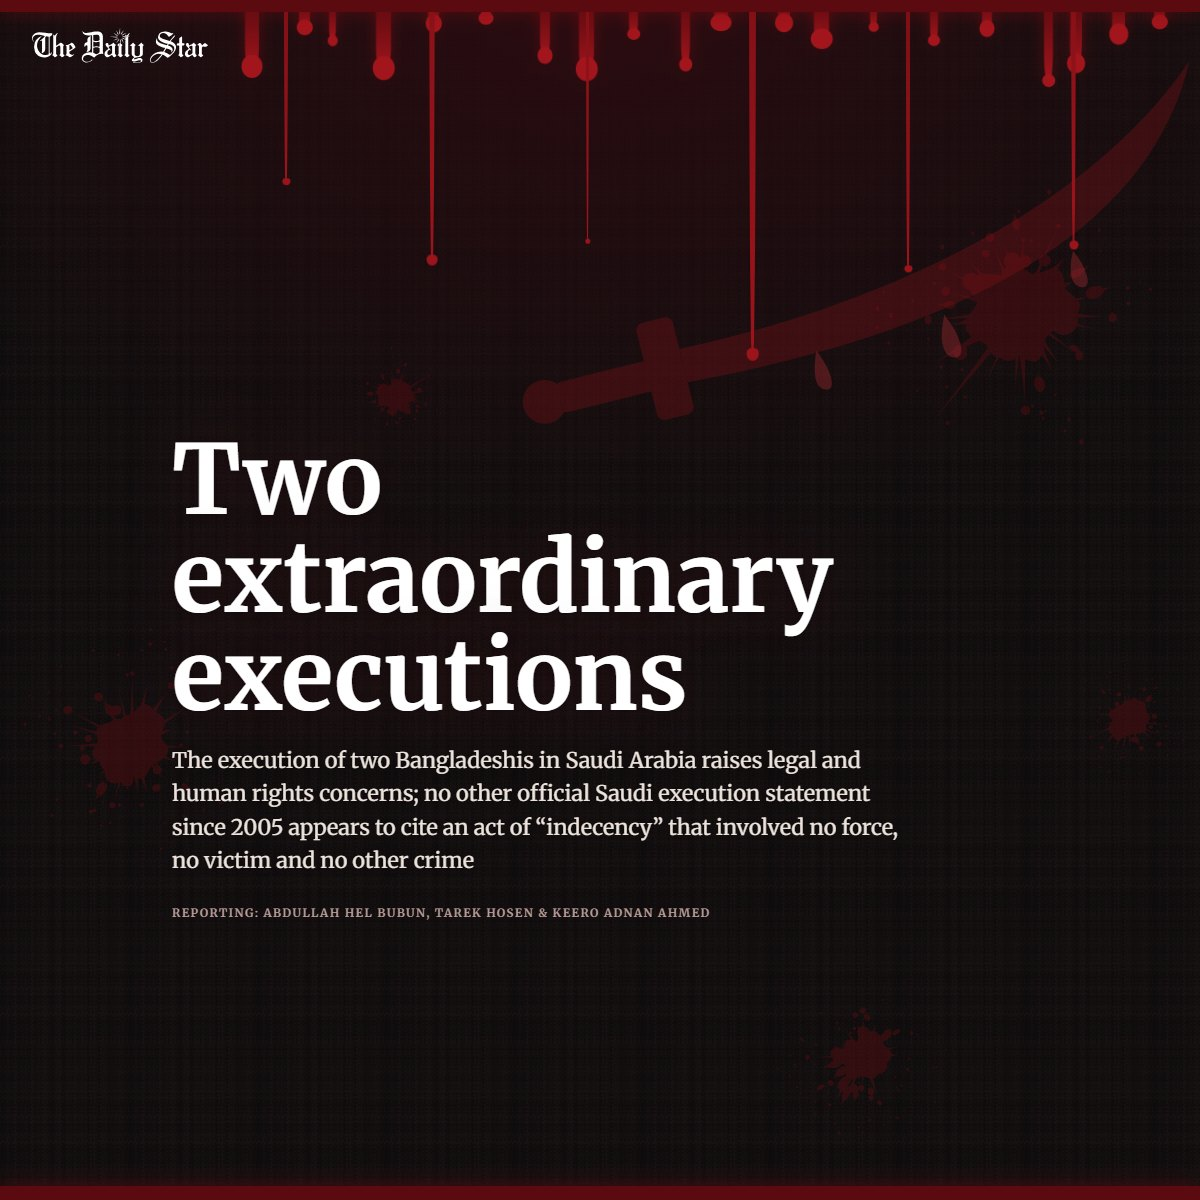
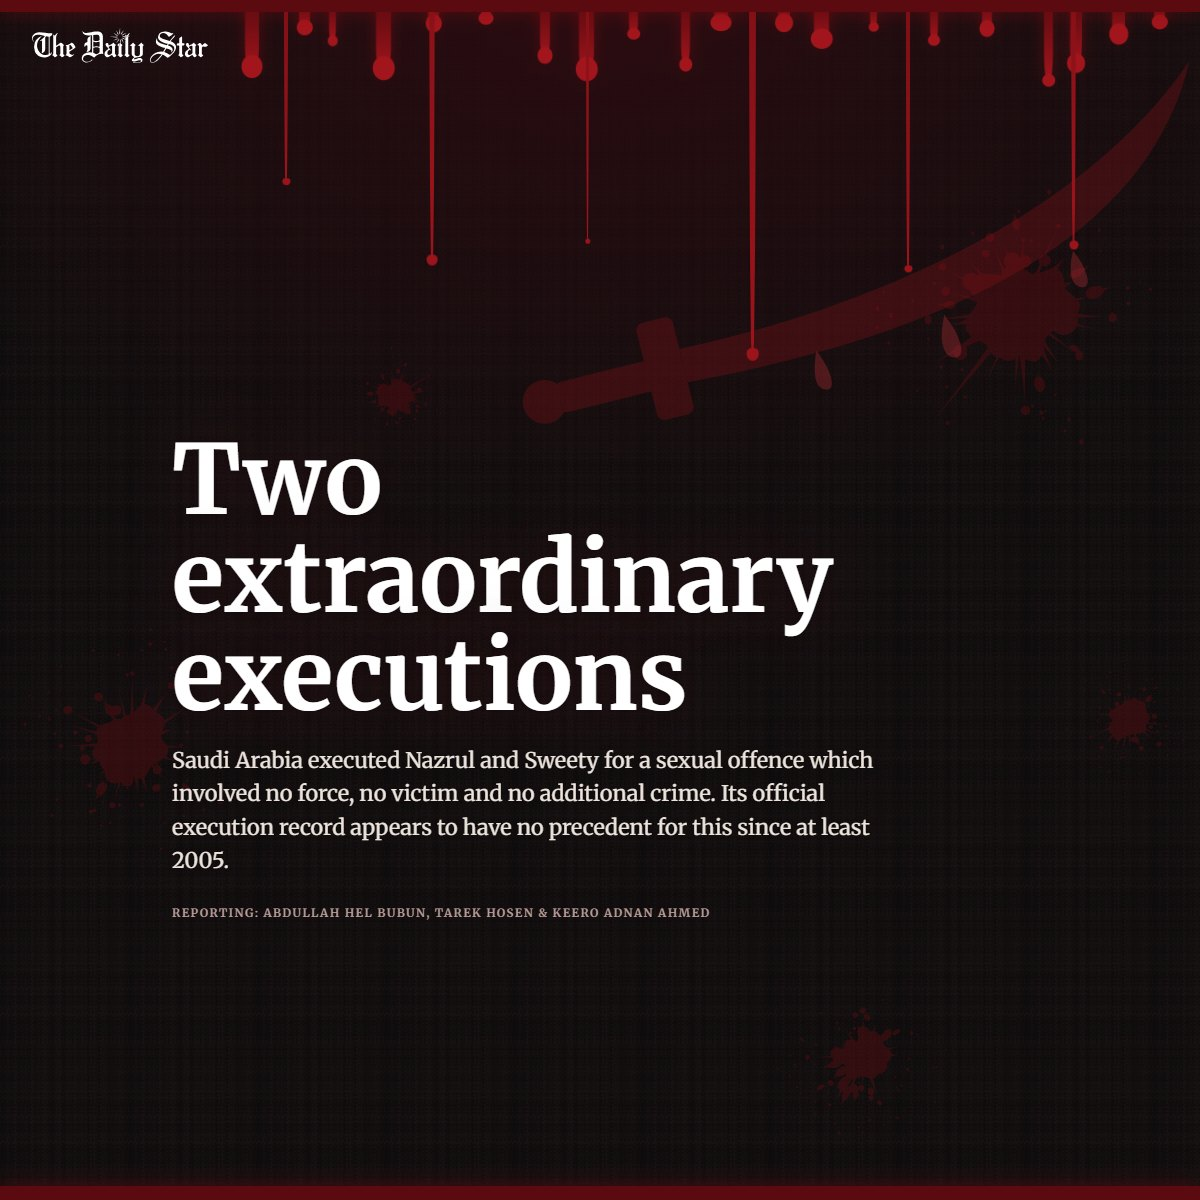
New dek: Nazrul and Sweety's offence, and no precedent since 2005
Hero and JSON-LD alternativeHeadline; share images re-shot.

Changed region(s): [[0.1233, 0.6167, 0.74, 0.74]]

diff --git a/index.html b/index.html
@@ -52,7 +52,7 @@
 <meta name="twitter:description" content="A Daily Star analysis of 665 Saudi government execution statements between January 2024 and 20 October 2026 reveals that the execution of Nazrul and Sweety was extremely unusual.">
 <meta name="twitter:image" content="https://campaign.thedailystar.net/saudi-execution/img/share.jpg">
 <meta name="twitter:image:alt" content="The story’s opening screen: the headline Two extraordinary executions, the standfirst and the byline over blood drips, splatters and a sword">
-<script type="application/ld+json">{"@context": "https://schema.org", "@type": "NewsArticle", "mainEntityOfPage": {"@type": "WebPage", "@id": "https://campaign.thedailystar.net/saudi-execution/"}, "url": "https://campaign.thedailystar.net/saudi-execution/", "headline": "Two extraordinary executions", "alternativeHeadline": "The execution of two Bangladeshis in Saudi Arabia raises legal and human rights concerns; no other official Saudi execution statement since 2005 appears to cite an act of “indecency” that involved no force, no victim and no other crime", "description": "A Daily Star analysis of 665 Saudi government execution statements between January 2024 and 20 October 2026 reveals that the execution of Nazrul and Sweety was extremely unusual.", "image": ["https://campaign.thedailystar.net/saudi-execution/img/share-16x9.jpg", "https://campaign.thedailystar.net/saudi-execution/img/share-4x3.jpg", "https://campaign.thedailystar.net/saudi-execution/img/share-1x1.jpg", "https://campaign.thedailystar.net/saudi-execution/img/share.jpg"], "thumbnailUrl": "https://campaign.thedailystar.net/saudi-execution/img/share.jpg", "datePublished": "2026-10-31T00:00:00+06:00", "dateModified": "2026-10-31T00:00:00+06:00", "inLanguage": "en", "isAccessibleForFree": true, "articleSection": "Investigation", "keywords": ["Saudi Arabia executions", "Saudi Arabia death penalty", "Bangladeshi executed in Saudi Arabia", "Nazrul Islam Abdul Basir", "Sweety Akhtar", "Nazrul and Sweety execution", "fahisha", "indecency execution Makkah", "ta'zir", "qisas", "hudud", "Saudi Interior Ministry", "Saudi war on drugs", "drug-related executions", "captagon", "foreign nationals executed in Saudi Arabia", "migrant workers Saudi Arabia", "Bangladeshi migrants", "Amnesty International", "Reprieve", "European Saudi Organization for Human Rights", "most serious crimes international law", "Islamic law death penalty", "Saudi executions 2025", "Saudi executions 2026", "The Daily Star investigation"], "author": [{"@type": "Person", "name": "Abdullah Hel Bubun"}, {"@type": "Person", "name": "Tarek Hosen"}, {"@type": "Person", "name": "Keero Adnan Ahmed"}], "contributor": [{"@type": "Person", "name": "Mir Rownak"}], "publisher": {"@type": "NewsMediaOrganization", "name": "The Daily Star", "url": "https://www.thedailystar.net/", "logo": {"@type": "ImageObject", "url": "https://campaign.thedailystar.net/saudi-execution/img/logo.png", "width": 600, "height": 60}, "sameAs": ["https://www.facebook.com/dailystarnews", "https://x.com/dailystarnews", "https://www.youtube.com/channel/UCKSJ5rTXq-pYgAmAOhVS_zQ", "https://www.instagram.com/dailystar_bd/", "https://www.linkedin.com/company/thedailystar/"]}, "contentLocation": {"@type": "Place", "name": "Makkah, Saudi Arabia"}, "wordCount": 2542, "copyrightYear": 2026, "copyrightHolder": {"@type": "NewsMediaOrganization", "name": "The Daily Star"}, "about": [{"@type": "Thing", "name": "Capital punishment in Saudi Arabia"}, {"@type": "Thing", "name": "Bangladeshi migrant workers"}], "mentions": [{"@type": "Person", "name": "Nazrul Islam Abdul Basir"}, {"@type": "Person", "name": "Sweety Akhtar"}, {"@type": "Organization", "name": "Amnesty International"}, {"@type": "Organization", "name": "Reprieve"}, {"@type": "Organization", "name": "European Saudi Organization for Human Rights"}, {"@type": "GovernmentOrganization", "name": "Ministry of Interior, Saudi Arabia"}]}</script>
+<script type="application/ld+json">{"@context": "https://schema.org", "@type": "NewsArticle", "mainEntityOfPage": {"@type": "WebPage", "@id": "https://campaign.thedailystar.net/saudi-execution/"}, "url": "https://campaign.thedailystar.net/saudi-execution/", "headline": "Two extraordinary executions", "alternativeHeadline": "Saudi Arabia executed Nazrul and Sweety for a sexual offence which involved no force, no victim and no additional crime. Its official execution record appears to have no precedent for this since at least 2005.", "description": "A Daily Star analysis of 665 Saudi government execution statements between January 2024 and 20 October 2026 reveals that the execution of Nazrul and Sweety was extremely unusual.", "image": ["https://campaign.thedailystar.net/saudi-execution/img/share-16x9.jpg", "https://campaign.thedailystar.net/saudi-execution/img/share-4x3.jpg", "https://campaign.thedailystar.net/saudi-execution/img/share-1x1.jpg", "https://campaign.thedailystar.net/saudi-execution/img/share.jpg"], "thumbnailUrl": "https://campaign.thedailystar.net/saudi-execution/img/share.jpg", "datePublished": "2026-10-31T00:00:00+06:00", "dateModified": "2026-10-31T00:00:00+06:00", "inLanguage": "en", "isAccessibleForFree": true, "articleSection": "Investigation", "keywords": ["Saudi Arabia executions", "Saudi Arabia death penalty", "Bangladeshi executed in Saudi Arabia", "Nazrul Islam Abdul Basir", "Sweety Akhtar", "Nazrul and Sweety execution", "fahisha", "indecency execution Makkah", "ta'zir", "qisas", "hudud", "Saudi Interior Ministry", "Saudi war on drugs", "drug-related executions", "captagon", "foreign nationals executed in Saudi Arabia", "migrant workers Saudi Arabia", "Bangladeshi migrants", "Amnesty International", "Reprieve", "European Saudi Organization for Human Rights", "most serious crimes international law", "Islamic law death penalty", "Saudi executions 2025", "Saudi executions 2026", "The Daily Star investigation"], "author": [{"@type": "Person", "name": "Abdullah Hel Bubun"}, {"@type": "Person", "name": "Tarek Hosen"}, {"@type": "Person", "name": "Keero Adnan Ahmed"}], "contributor": [{"@type": "Person", "name": "Mir Rownak"}], "publisher": {"@type": "NewsMediaOrganization", "name": "The Daily Star", "url": "https://www.thedailystar.net/", "logo": {"@type": "ImageObject", "url": "https://campaign.thedailystar.net/saudi-execution/img/logo.png", "width": 600, "height": 60}, "sameAs": ["https://www.facebook.com/dailystarnews", "https://x.com/dailystarnews", "https://www.youtube.com/channel/UCKSJ5rTXq-pYgAmAOhVS_zQ", "https://www.instagram.com/dailystar_bd/", "https://www.linkedin.com/company/thedailystar/"]}, "contentLocation": {"@type": "Place", "name": "Makkah, Saudi Arabia"}, "wordCount": 2542, "copyrightYear": 2026, "copyrightHolder": {"@type": "NewsMediaOrganization", "name": "The Daily Star"}, "about": [{"@type": "Thing", "name": "Capital punishment in Saudi Arabia"}, {"@type": "Thing", "name": "Bangladeshi migrant workers"}], "mentions": [{"@type": "Person", "name": "Nazrul Islam Abdul Basir"}, {"@type": "Person", "name": "Sweety Akhtar"}, {"@type": "Organization", "name": "Amnesty International"}, {"@type": "Organization", "name": "Reprieve"}, {"@type": "Organization", "name": "European Saudi Organization for Human Rights"}, {"@type": "GovernmentOrganization", "name": "Ministry of Interior, Saudi Arabia"}]}</script>
 <link rel="icon" href="img/favicon.ico" sizes="16x16">
 <link rel="sitemap" type="application/xml" title="Sitemap" href="sitemap.xml">
 <link rel="preload" href="fonts/merriweather-700.woff2" as="font" type="font/woff2" crossorigin>
@@ -394,7 +394,7 @@ dialog.prm::backdrop{background:rgba(0,0,0,.8)}
 <header class="hero" id="top">
 <div class="hero__art" aria-hidden="true"><div class="hero__glow"></div><svg class="spl" style="left:85%;top:26%;--s:300px;--r:0deg"><use href="#spl3"/></svg><svg class="spl" style="left:11%;top:62%;--s:240px;--r:70deg"><use href="#spl"/></svg><svg class="spl" style="left:72%;top:88%;--s:190px;--r:140deg"><use href="#spl2"/></svg><svg class="spl" style="left:33%;top:33%;--s:100px;--r:200deg"><use href="#spl3"/></svg><svg class="spl" style="left:94%;top:60%;--s:130px;--r:260deg"><use href="#spl"/></svg><svg class="sword" viewBox="0 0 500 220" aria-hidden="true"><path d="M130 118C250 122 400 100 492 18C446 108 330 152 130 140Z"/><rect x="106" y="96" width="24" height="64" rx="5"/><path d="M108 120H52a8 8 0 0 0 0 20h56z"/><circle cx="38" cy="130" r="14"/><path class="dr" d="M300 138c-7 14-8 26 0 28s7-14 0-28zM390 118c-6 12-7 22 0 24s6-12 0-24zM215 140c-6 14-7 24 0 26s6-12 0-26z"/></svg><div class="drips"><i style="left:1.8%;height:67px;width:14px;animation-duration:9.3s;animation-delay:-4.1s"></i><i style="left:7.3%;height:32px;width:11px;animation-duration:10.4s;animation-delay:-6.3s"></i><i style="left:10.4%;height:38px;width:7px;animation-duration:11.7s;animation-delay:-5.5s"></i><i style="left:15.2%;height:69px;width:15px;animation-duration:10.6s;animation-delay:-4.9s"></i><i style="left:20.6%;height:25px;width:11px;animation-duration:6.4s;animation-delay:-1.5s"></i><i style="left:26.0%;height:25px;width:10px;animation-duration:9.1s;animation-delay:-6.7s"></i><i style="left:32.1%;height:53px;width:10px;animation-duration:10.6s;animation-delay:-3.7s"></i><i style="left:36.1%;height:70px;width:15px;animation-duration:11.9s;animation-delay:-5.7s"></i><i style="left:41.3%;height:41px;width:9px;animation-duration:6.5s;animation-delay:-6.1s"></i><i style="left:46.6%;height:63px;width:9px;animation-duration:12.7s;animation-delay:-6.8s"></i><i style="left:50.0%;height:34px;width:14px;animation-duration:9.3s;animation-delay:-7.8s"></i><i style="left:56.6%;height:27px;width:12px;animation-duration:11.4s;animation-delay:-2.2s"></i><i style="left:60.3%;height:49px;width:15px;animation-duration:11.3s;animation-delay:-0.9s"></i><i style="left:66.0%;height:29px;width:7px;animation-duration:11.6s;animation-delay:-1.4s"></i><i style="left:72.2%;height:45px;width:8px;animation-duration:11.1s;animation-delay:-1.0s"></i><i style="left:77.6%;height:29px;width:10px;animation-duration:7.5s;animation-delay:-2.2s"></i><i style="left:83.9%;height:85px;width:9px;animation-duration:12.2s;animation-delay:-1.7s"></i><i style="left:86.6%;height:63px;width:12px;animation-duration:6.7s;animation-delay:-7.9s"></i><i style="left:90.9%;height:36px;width:13px;animation-duration:8.3s;animation-delay:-2.4s"></i><i style="left:95.3%;height:28px;width:11px;animation-duration:7.7s;animation-delay:-4.8s"></i><span class="run w" style="left:6%;--w:4px;--len:44%;--from:0.35"><i></i></span><span class="run" style="left:21%;--w:6px;--len:100%;--from:0.22"><i></i></span><span class="run w" style="left:37%;--w:3px;--len:68%;--from:0.3"><i></i></span><span class="run" style="left:54%;--w:7px;--len:100%;--from:0.3"><i></i></span><span class="run w" style="left:70%;--w:4px;--len:57%;--from:0.4"><i></i></span><span class="run" style="left:87%;--w:5px;--len:83%;--from:0.25"><i></i></span></div><div class="band"></div><div class="pool"></div></div>
 <div class="masthead"><a href="https://www.thedailystar.net" target="_blank" rel="noopener" aria-label="The Daily Star home (opens in a new tab)"><svg class="tds-logo" viewBox="0 0 321.41 63.84" aria-hidden="true"><use href="#tds-logo"/></svg></a></div>
-<div class="hero__body"><h1 tabindex="-1">Two extraordinary executions</h1><p class="dek">The execution of two Bangladeshis in Saudi Arabia raises legal and human rights concerns; no other official Saudi execution statement since 2005 appears to cite an act of “indecency” that involved no force, no victim and no other crime</p><p class="by">Reporting: Abdullah Hel Bubun, Tarek Hosen &amp; Keero Adnan Ahmed</p></div>
+<div class="hero__body"><h1 tabindex="-1">Two extraordinary executions</h1><p class="dek">Saudi Arabia executed Nazrul and Sweety for a sexual offence which involved no force, no victim and no additional crime. Its official execution record appears to have no precedent for this since at least 2005.</p><p class="by">Reporting: Abdullah Hel Bubun, Tarek Hosen &amp; Keero Adnan Ahmed</p></div>
 </header>
 <main id="story">
 <div class="txt"><p>Nazrul Islam Abdul Basir and Sweety Akhtar left Bangladesh for Saudi Arabia in 2022, hoping for a better life. Both used to work as cleaners for a Saudi company called AL-Majal to support their families back home.</p>

diff --git a/HANDOVER.md b/HANDOVER.md
@@ -1,6 +1,12 @@
 # Handover: Two extraordinary executions (2026-10-28)
 
 ## What changed and why
+- **Dek (Mir, 2026-10-31):** now "Saudi Arabia executed Nazrul and Sweety for a sexual offence which involved no
+  force, no victim and no additional crime. Its official execution record appears to have no precedent for this since
+  at least 2005." (hero + JSON-LD alternativeHeadline). Shorter than the old dek, so the hero fit still holds.
+- **Scene 1 key (Mir, 2026-10-31):** "Al-fahisha (Bangladeshis)" left the key on cards 2–4 (Nazrul and Sweety take
+  the "other" colour there); on the 15 card they turn green beside the 13 amber; the last card's key shows both rows,
+  amber dimmed. Methodology: "which is why this analysis says" (was "the story says").
 - **Copy, type size, tap fix (Mir, 2026-10-31):** the intro's "However, a Daily Star analysis…" line is now three
   paragraphs ("However, the executions were highly unusual." / the 665-statement analysis / "Nazrul and Sweety are
   the only people…"); the 2012 case now reads "inside Medina’s Masjid al-Nabawī, considered to be the second-holiest
